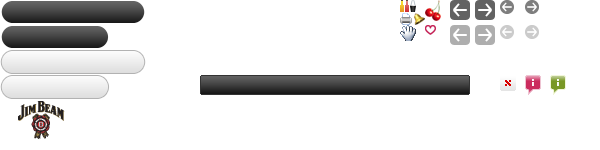
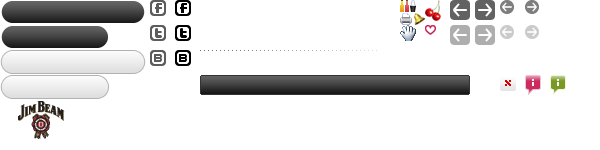
may theme update

Changed region(s): [[0.24, 0.32, 0.33, 0.4533], [0.24, 0.16, 0.33, 0.2933], [0.24, 0.0, 0.33, 0.1067]]

diff --git a/htdocs/t/branding/2012.05/branding.css b/htdocs/t/branding/2012.05/branding.css
@@ -12,21 +12,38 @@
 .b-more-cocktails .next,
 .cocktail-list .prev,
 .cocktail-list .next,
-button.rounded { background-repeat: no-repeat; background-image: url(common.png); }
+button.rounded,
+.common-share-box .button i { background-repeat: no-repeat; background-image: url(common.png); }
 #spotlighted i { width: 65px; height: 40px; right: -1px; top: -9px; }
-#common-footer .alcohol-harm { background-repeat: no-repeat; background-image: url(alcohol-harm.png); }
 #branded-image { background-repeat: no-repeat; background-image: url(image.png); width: 2000px; height: 530px; left: -1010px; bottom: -640px; }
-#branded-image-holder { height: 890px; position: absolute; top: 245px; bottom: auto; }
+#branded-image-holder { height: 1115px; position: absolute; top: 245px; bottom: auto; }
 html.float-fixed #branded-image-holder { position: fixed; top: 0; bottom: auto; }
 html.stick-bottom #branded-image-holder { top: auto; bottom: 0; }
 a { color: #000; }
-#common-footer { color: #888; text-shadow: 2px 0px 2px #f8f6f1, 0px 2px 2px #f8f6f1, -2px 0px 2px #f8f6f1, 0px -2px 2px #f8f6f1; }
-#common-footer .link { color: #000; }
 html { background: #f8f6f1 url(bg.jpg) center 0 repeat-y; }
+html.branding-short {  }
 button.rounded b,
 button.strong b { text-shadow: 1px 1px 1px rgba(0,0,0,0.4); }
 button.rounded b { color: #fff; }
 button.strong b { color: #000; }
+
+
+/* footer */
+#common-footer { color: #565656; }
+#common-footer a { color: inherit; text-shadow: 1px 1px #fff, 1px -1px #fff, -1px 1px #fff, -1px -1px #fff; }
+#common-footer a:hover { color: #000; }
+#common-footer .index { border-bottom: solid 1px #ddd; }
+#common-footer .index .theme .head { color: #323232; }
+#common-footer .index .theme .head:after { background-image: url(common.png); }
+#common-footer .bottom { background-color: rgba(255,255,255,0.6); }
+#common-footer .alcohol-harm { background-repeat: no-repeat; background-image: url(alcohol-harm.png); }
+
+html.barmen-section #common-footer .about-menu .link.barmen,
+html.job-section #common-footer .link.job,
+html.about-page #common-footer .link.about,
+html.cocktail-groups-section #common-footer .about-menu .link.cocktail-groups
+{ color: #000; cursor: default; text-decoration: none !important; }
+
 
 /* calculator.css */
 #b-bill dt,
